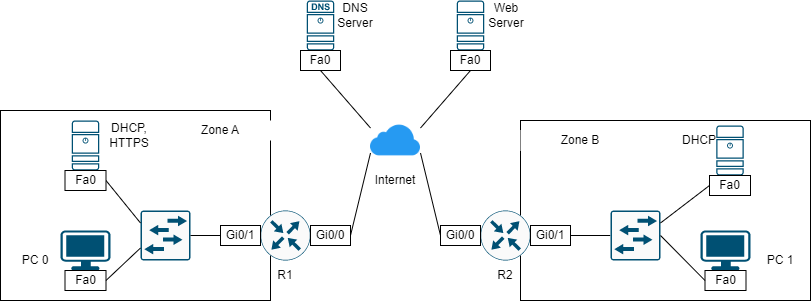
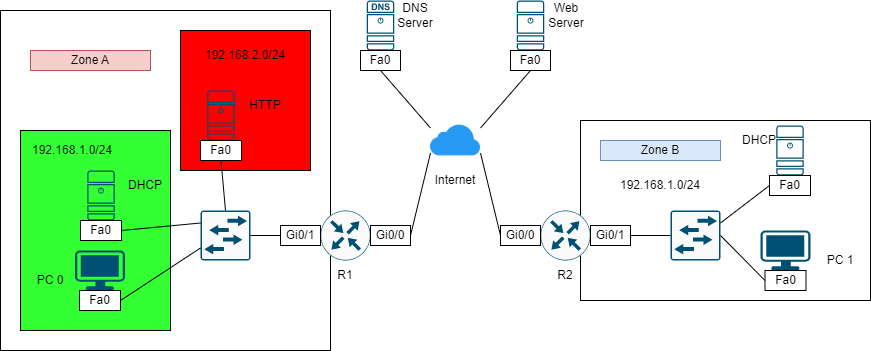
nat config full

diff --git a/network_engineer_dream/experiment/NAT_config/index.md b/network_engineer_dream/experiment/NAT_config/index.md
@@ -1,4 +1,4 @@
-# CẤU HÌNH NAT
+# CẤU HÌNH NAT CHO MỘT DOANH NGHIỆP
 
 ![Topology](./img/topology.png)
 
@@ -12,18 +12,117 @@ Mạng nội bộ Zone B PC 1 có thể truy cập đến DNS Server, Web Server
 
 ## Bước cấu hình
 
-B1: Thực hiện cấu hình các interface như sau, dùng địa chỉ mạng là 8.8.8.0/24 để mô phỏng mạng Internet.
+### CÀI ĐẶT ĐỊA CHỈ IP
+
+Thực hiện cấu hình các interface như sau, dùng địa chỉ mạng là 8.8.8.0/24 để mô phỏng mạng Internet. Cấu hình subinterface xem tại [[2]](https://www.cisco.com/c/en/us/td/docs/switches/lan/catalyst9600/software/release/17-3/configuration_guide/vlan/b_173_vlan_9600_cg/configuring_layer_3_subinterfaces.pdf).
 
 |Machine|Interface|IP address|Netmask|
 |:------|:--------|:---------|:------|
 |DNS Server|Fa0|8.8.8.8|255.255.255.0|
 |Web Server|Fa0|8.8.8.9|255.255.255.0|
 |R1|Gig0/0|8.8.8.100|255.255.255.0|
-|R1|Gig0/1|192.168.1.1|255.255.255.0|
+|R1|Gig0/1.1|192.168.10.100|255.255.255.0|
+|R1|Gig0/1.2|192.168.20.100|255.255.255.0|
 |R2|Gig0/0|8.8.8.101|255.255.255.0|
 |R2|Gig0/1|192.168.1.1|255.255.255.0|
-|Internal Server (Zone A)|Fa0|192.168.1.2|255.255.255.0|
-|Internal Server (Zone B)|Fa0|192.168.1.2|255.255.255.0|
+|Internal DHCP Server (Zone A)|Fa0|192.168.10.2|255.255.255.0|
+|Internal Web Server (Zone A)|Fa0|192.168.20.50|255.255.255.0|
+|Internal DHCP Server (Zone B)|Fa0|192.168.10.2|255.255.255.0|
+
+### MÔ PHỎNG INTERNET
+
+Cấu hình định tuyến OSPF cho các Gateway 1, Gateway 2 và Internet (L3 switch). Tham khảo cách cấu hình OSPF tại [đây](../OSPF_routing/index.md). Lưu ý rằng 2 router Gateway sẽ không quản bá mạng nội bộ ra Internet.
+
+### CẤU HÌNH DYNAMIC NAT VÀ STATIC NAT CHO ZONE A
+
+**Định nghĩa ACL chỉ cho phép từ bên ngoài truy cập dến web server và thực hiện ping. Trong khi đó mạng nội bộ có thể ra vào Internet bình thường:**
+
+- Tạo Access List sao cho tỏa yêu cầu:
+
+```
+access-list 102 permit ospf any any
+access-list 102 permit tcp any host 13.13.13.13 eq 80
+access-list 102 permit tcp host 13.13.13.13 any eq 80
+access-list 102 permit icmp any host 13.13.13.13
+access-list 102 permit icmp host 13.13.13.13 any
+```
+
+- Áp dụng Access List lên Interface g0/0 theo chiều vào:
+
+```
+ip access-group 102 in
+```
+
+**Cấu hình static NAT cho Zone A để các máy ở Zone B truy cập Web ở Zone A bằng địa chỉ 13.13.13.13:**
+
+- Xác định NAT interface outside là g0/0 và inside là g0/1.1 và g0/1.2:
+
+```
+interface g0/0
+ip nat outside
+interface g0/1.1
+ip nat inside
+interface g0/1.2
+ip nat inside
+```
+
+- Tạo một bản NAT định nghĩa chuyển đổi giữa IP 12.12.12.12 thành 192.168.20.2 (IP Internal Web Server của Zone A):
+
+```
+ip nat inside source static 192.168.20.2 13.13.13.13
+```
+
+**Cấu hình Dynamic NAT cho các máy ở Zone A có thể truy cập Internet bình thường với địa chỉ IP công khai là 13.13.13.14:**
+
+- Tạo IP NAT pool cho các máy ở Zone A có thể kết nối với Internet.
+
+```
+ip nat pool ZONE_A 13.13.13.14 13.13.13.15 netmask 255.255.255.0
+```
+
+- Tạo ACL để cho biết interface traffic có thể dịch được, do mạng Zone A có 2 mạng là 192.168.10.0/24 và 192.168.20.0/24 nên là ACL sẽ có 2 dòng:
+
+```
+access-list 1 permit 192.168.10.0 0.0.0.255
+access-list 1 permit 192.168.20.0 0.0.0.255
+```
+
+- Áp dụng PAT:
+
+```
+ip nat inside source list 1 pool ZONE_A overload
+```
+
+### CẤU HÌNH DYNAMIC NAT CHO ZONE B
+
+**Cấu hình Dynamic NAT cho các máy ở Zone A có thể truy cập Internet bình thường với địa chỉ IP công khai là 13.13.13.14:**
+
+- Xác định NAT interface outside là g0/0 và inside là g0/1.1 và g0/1.2:
+
+```
+interface g0/0
+ip nat outside
+interface g0/1
+ip nat inside
+```
+
+- Tạo IP NAT pool cho các máy ở Zone A có thể kết nối với Internet.
+
+```
+ip nat pool ZONE_B 17.17.17.17 17.17.17.17 netmask 255.255.255.0
+```
+
+- Tạo ACL để cho biết interface traffic có thể dịch được, do mạng Zone A có 2 mạng là 192.168.10.0/24 và 192.168.20.0/24 nên là ACL sẽ có 2 dòng:
+
+```
+access-list 1 permit 192.168.1.0 0.0.0.255
+```
+
+- Áp dụng PAT:
+
+```
+ip nat inside source list 1 pool ZONE_B overload
+```
 
 ## REFERENCE
 

diff --git a/network_engineer_dream/experiment/SW_L3_config/index.md b/network_engineer_dream/experiment/SW_L3_config/index.md
@@ -1,0 +1,1 @@
+# CONFIGURE SWITCH LAYER 3
